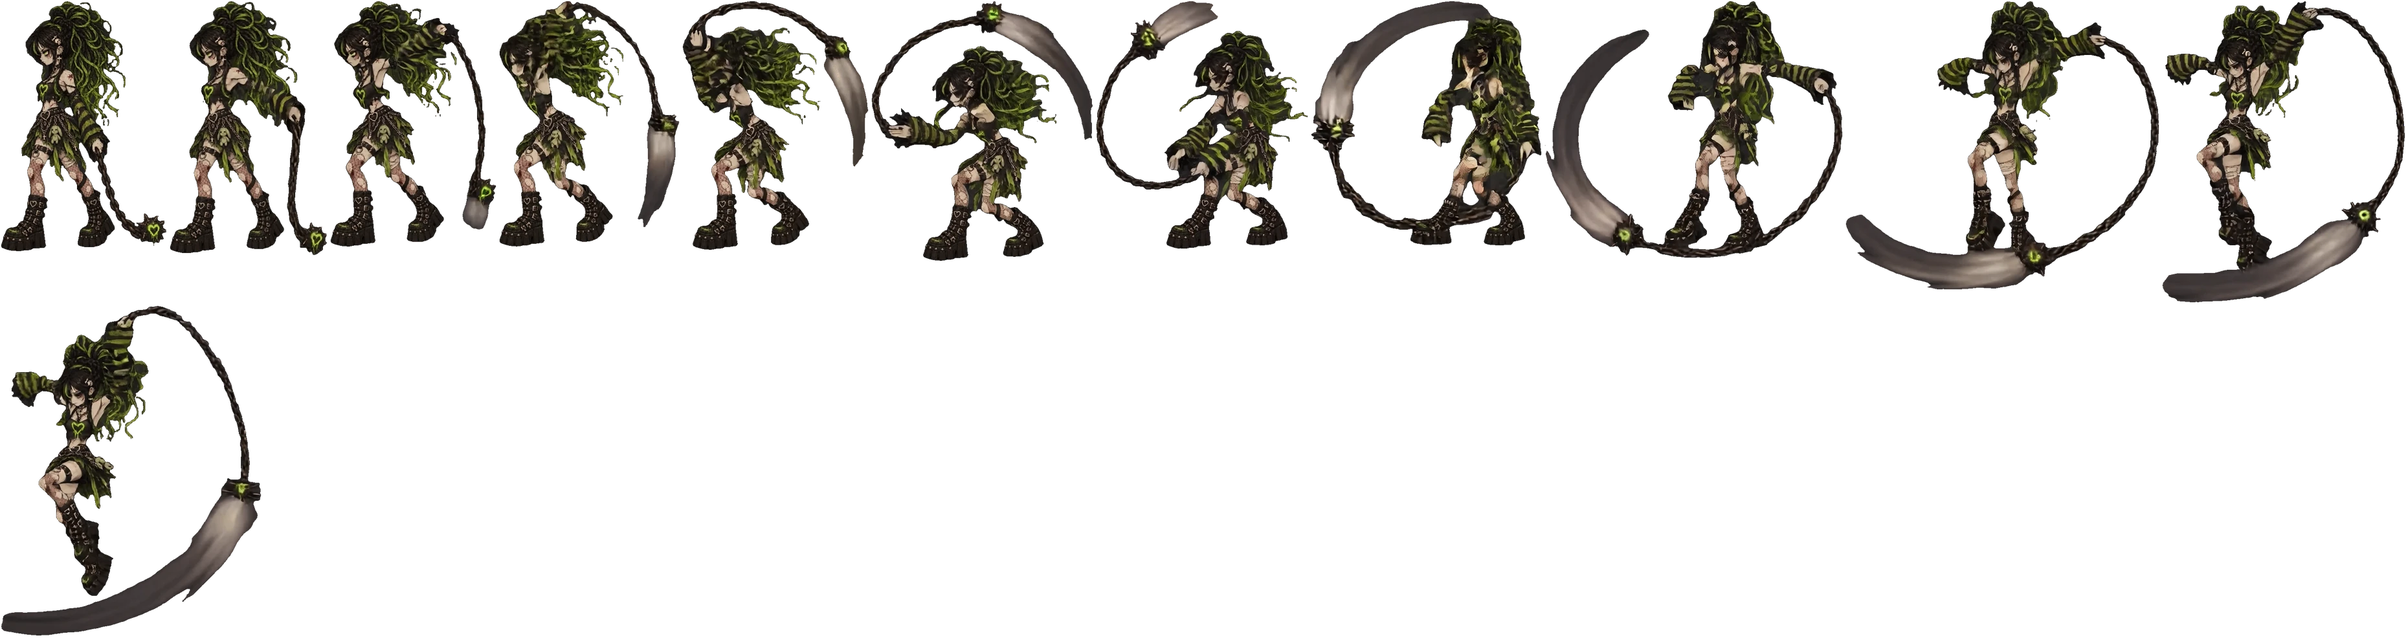
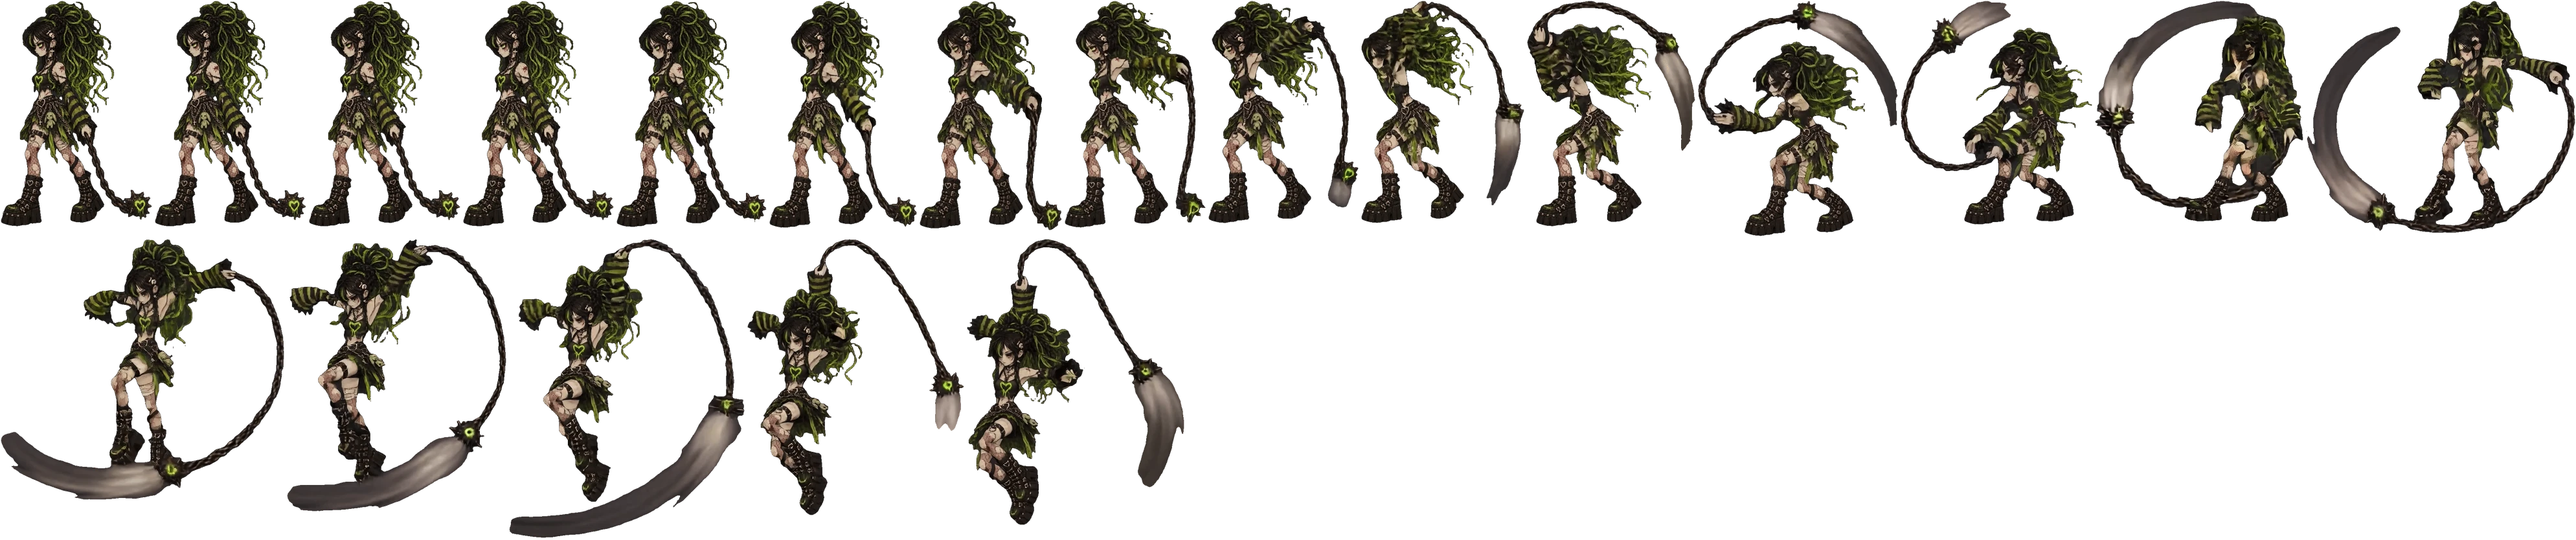
Add files via upload

diff --git a/js/levels/level1.js b/js/levels/level1.js
@@ -1,4 +1,4 @@
-/* Goodbye Goth V9.1 - Chain Goth fight (AI + intro/walk/swipe art) on top of V9.0 map cleanup and the v8.11 Zombie Goth AI. */
+/* Goodbye Goth V9.2 - Chain Goth fight (AI + intro/walk/swipe art) on top of V9.0 map cleanup and the v8.11 Zombie Goth AI. */
 const WORLD_W = 1536,
     WORLD_H = 1024;
 const SAVE_KEY = 'goodbyeGothSave_v6';
@@ -230,49 +230,53 @@ const ZOMBIE_DEATH_FLOOR_OFFSETS = [69, 67, 66, 71, 66, 58, 41, 41];
    animator's 1440x1440 frames by tools/build_chain_assets.py). Every frame row is
    [packX, packY, packW, packH, offsetX, offsetY]; the offsets place the trimmed frame
    relative to her feet. The art faces LEFT, like the Zombie Goth art. */
-const CHAIN_ATLAS_DATA = {"intro":{"size":[4018,2009],"frames":[[0,0,261,388,-211,-623],[263,0,260,384,-211,-615],[525,0,265,374,-211,-601],[792,0,291,388,-211,-621],[1085,0,348,404,-211,-649],[1435,0,368,522,-215,-839],[1805,0,355,526,-436,-844],[2162,0,442,378,-399,-606],[2606,0,406,485,-292,-777],[3014,0,461,509,-423,-819],[3477,0,505,388,-477,-624],[0,528,369,517,-209,-792],[371,528,565,503,-452,-807],[938,528,373,531,-452,-856],[1313,528,487,416,-425,-649],[1802,528,368,510,-210,-771],[2172,528,416,508,-258,-815],[2590,528,560,495,-434,-794],[3152,528,504,513,-429,-824],[3658,528,360,544,-437,-877],[0,1074,471,446,-464,-718],[473,1074,524,396,-464,-623],[999,1074,410,466,-279,-704],[1411,1074,381,532,-210,-801],[1794,1074,472,489,-330,-784],[2268,1074,586,499,-462,-801],[2856,1074,482,521,-427,-839],[3340,1074,358,542,-443,-874],[0,1618,502,389,-475,-626]]},"walk":{"size":[3812,786],"frames":[[0,0,410,381,-261,-619],[412,0,401,381,-244,-617],[815,0,373,388,-198,-621],[1190,0,345,391,-151,-625],[1537,0,349,391,-157,-628],[1888,0,370,387,-190,-624],[2260,0,411,381,-255,-619],[2673,0,412,381,-256,-617],[3087,0,371,389,-189,-622],[3460,0,352,391,-156,-625],[0,393,353,391,-157,-628],[355,393,378,386,-197,-625]]},"swipe":{"size":[3717,986],"frames":[[0,0,259,390,-211,-626],[261,0,246,396,-211,-630],[509,0,259,383,-211,-614],[770,0,281,383,-211,-614],[1053,0,290,388,-236,-622],[1345,0,345,405,-339,-650],[1692,0,330,386,-385,-619],[2024,0,359,381,-441,-620],[2385,0,463,400,-457,-641],[2850,0,487,449,-396,-690],[3339,0,378,469,-180,-724],[0,471,405,513,-182,-799]]}};
+const CHAIN_ATLAS_DATA = {"intro":{"size":[4040,2644],"scale":0.5,"frames":[[0,0,210,313,-211,-623],[212,0,210,313,-211,-622],[424,0,210,310,-211,-615],[636,0,210,304,-211,-605],[848,0,214,302,-211,-601],[1064,0,216,306,-211,-610],[1282,0,234,312,-211,-621],[1518,0,260,316,-211,-629],[1780,0,280,326,-211,-649],[2062,0,294,367,-211,-731],[2358,0,296,421,-215,-839],[2656,0,326,404,-382,-804],[2984,0,286,424,-436,-844],[3272,0,303,362,-443,-719],[3577,0,356,305,-399,-606],[0,426,275,380,-211,-756],[277,426,328,391,-292,-777],[607,426,433,398,-450,-791],[1042,426,372,410,-423,-819],[1416,426,294,433,-440,-865],[1712,426,408,312,-477,-624],[2122,426,400,340,-446,-664],[2524,426,298,417,-209,-792],[2824,426,341,403,-269,-788],[3167,426,456,406,-452,-807],[3625,426,390,416,-427,-829],[0,861,300,428,-452,-856],[302,861,414,312,-491,-625],[718,861,393,336,-425,-649],[1113,861,297,411,-210,-771],[1412,861,336,410,-258,-815],[1750,861,452,399,-434,-794],[2204,861,406,414,-429,-824],[2612,861,290,439,-437,-877],[2904,861,380,360,-464,-718],[3286,861,422,320,-464,-623],[3710,861,330,376,-279,-704],[0,1302,307,429,-210,-801],[309,1302,381,394,-330,-784],[692,1302,472,402,-462,-801],[1166,1302,388,420,-427,-839],[1556,1302,289,438,-443,-874],[1847,1302,405,314,-475,-626],[2254,1302,406,322,-442,-626],[2662,1302,316,396,-241,-740],[2980,1302,320,452,-225,-830],[3302,1302,424,394,-413,-782],[0,1756,466,402,-461,-798],[468,1756,350,418,-424,-834],[820,1756,316,437,-436,-873],[1138,1756,412,312,-467,-624],[1552,1756,396,332,-414,-634],[1950,1756,304,426,-209,-783],[2256,1756,330,440,-237,-803],[2588,1756,427,398,-404,-790],[3017,1756,476,402,-461,-799],[3495,1756,374,418,-427,-833],[0,2198,293,444,-431,-887],[295,2198,401,354,-455,-706],[698,2198,414,330,-447,-630]]},"walk":{"size":[3765,706],"scale":0.56,"frames":[[0,0,371,344,-261,-619],[373,0,362,344,-244,-617],[737,0,337,351,-198,-621],[1076,0,311,353,-151,-625],[1389,0,315,353,-157,-628],[1706,0,334,349,-190,-624],[2042,0,371,344,-255,-619],[2415,0,372,344,-256,-617],[2789,0,335,351,-189,-622],[3126,0,318,353,-156,-625],[3446,0,319,353,-157,-628],[0,355,341,349,-197,-625]]},"swipe":{"size":[3978,834],"scale":0.56,"frames":[[0,0,236,351,-211,-623],[238,0,236,351,-211,-623],[476,0,236,351,-211,-624],[714,0,235,351,-211,-624],[951,0,234,352,-211,-626],[1187,0,230,353,-211,-627],[1419,0,222,357,-211,-630],[1643,0,220,353,-211,-627],[1865,0,234,346,-211,-614],[2101,0,254,346,-211,-614],[2357,0,262,351,-236,-622],[2621,0,311,366,-339,-650],[2934,0,298,348,-385,-619],[3234,0,324,344,-441,-620],[3560,0,418,361,-457,-641],[0,368,440,405,-396,-690],[442,368,341,423,-180,-724],[785,368,366,464,-182,-799],[1153,368,337,429,-122,-868],[1492,368,338,444,-97,-913]]},"death":{"size":[4025,897],"scale":0.56,"frames":[[0,0,256,345,-263,-614],[258,0,291,343,-336,-610],[551,0,299,342,-360,-608],[852,0,281,360,-319,-656],[1135,0,334,394,-399,-725],[1471,0,411,442,-518,-805],[1884,0,306,387,-325,-713],[2192,0,304,390,-322,-703],[2498,0,304,338,-321,-609],[2804,0,304,337,-321,-609],[3110,0,303,337,-320,-615],[3415,0,304,338,-320,-611],[3721,0,304,338,-319,-615],[0,444,303,335,-317,-615],[305,444,305,329,-310,-597],[612,444,306,320,-304,-580],[920,444,309,299,-293,-542],[1231,444,316,277,-288,-501],[1549,444,352,218,-304,-384],[1903,444,405,140,-321,-216],[2310,444,405,114,-321,-167],[2717,444,405,114,-321,-167],[3124,444,405,114,-321,-167],[3531,444,405,114,-321,-168],[0,781,405,114,-321,-167],[407,781,405,114,-321,-168],[814,781,405,114,-321,-167],[1221,781,405,114,-321,-167],[1628,781,405,114,-321,-167],[2035,781,405,114,-321,-167],[2442,781,405,114,-321,-167],[2849,781,405,114,-321,-167]]}};
 const chainAtlas = {};
 for (const [name, data] of Object.entries(CHAIN_ATLAS_DATA)) {
     const img = new Image();
-    img.src = `assets/characters/combat/chain-goth/chain-${name}.webp?v=9100`;
-    chainAtlas[name] = { img, frames: data.frames };
+    img.src = `assets/characters/combat/chain-goth/chain-${name}.webp?v=9210`;
+    chainAtlas[name] = { img, frames: data.frames, scale: data.scale };
 }
-const CHAIN_ATLAS_SCALE = 0.62;          // pack pixels per original animator pixel
 const CHAIN_RENDER_SCALE = 0.56;         // size in the arena (original pixels -> screen pixels)
-const CHAIN_INTRO_SCALE_BOOST = 1.12;    // the 3-2-1 showboating pose is a little bigger
+const CHAIN_INTRO_SCALE = 0.50;          // 3-2-1 pose is drawn a bit smaller so her chain never goes behind the HP bar
 const CHAIN_FLOOR_Y = 535;               // same floor line Olly and the Zombie stand on
 // Intro: 14 build-up frames, then a 15-frame chain-twirl loop that repeats until FIGHT.
-const CHAIN_INTRO_PRE_COUNT = 14, CHAIN_INTRO_PRE_MS = 80, CHAIN_INTRO_LOOP_COUNT = 15, CHAIN_INTRO_LOOP_MS = 50;
+const CHAIN_INTRO_PRE_COUNT = 28, CHAIN_INTRO_PRE_MS = 55, CHAIN_INTRO_LOOP_COUNT = 32, CHAIN_INTRO_LOOP_MS = 47;   // each loop is about one countdown beat (1.5s)
+const CHAIN_INTRO_GROW_MS = 500;         // she eases from the intro size to her normal fighting size at the very end of the countdown
 const CHAIN_WALK_FRAME_MS = 105;
 // Swipe pack: frames 0-5 = wind-up (chain lifts behind her), frames 6-11 = the low sweep.
-const CHAIN_SWIPE_WINDUP_COUNT = 6, CHAIN_SWIPE_WINDUP_MS = 520;
-const CHAIN_SWIPE_STRIKE_FIRST = 6;
-const CHAIN_SWIPE_STRIKE_MS = [70, 60, 60, 60, 70, 90];
+const CHAIN_SWIPE_WINDUP_COUNT = 10, CHAIN_SWIPE_WINDUP_MS = 520;
+const CHAIN_SWIPE_STRIKE_FIRST = 10;
+const CHAIN_SWIPE_STRIKE_MS = [34, 34, 34, 34, 34, 34, 34, 34, 34, 34];   // ten frames, fast and fluid
 const CHAIN_SWIPE_TOTAL_MS = CHAIN_SWIPE_STRIKE_MS.reduce((a, b) => a + b, 0);
-const CHAIN_SWIPE_HIT_AT_MS = 130;       // the moment the mace sweeps across the floor in front of her
+const CHAIN_SWIPE_HIT_AT_MS = 136;       // the moment the mace sweeps across the floor in front of her
 const CHAIN_SWIPE_DAMAGE = 5, CHAIN_SWIPE_RANGE = 250, CHAIN_SWIPE_PUSH = 34;
 const CHAIN_STAND_OFF = 235;             // how far from Olly she likes to stand
 const CHAIN_CHASE_SPEED = 170;           // quicker than the Zombie Goth (135)
 const CHAIN_RECOVER_MS = 520;
 // Death is a simple topple + fade until the dedicated death art is added.
-const CHAIN_DEATH_FALL_MS = 850, CHAIN_DEATH_HOLD_MS = 1400;
+const CHAIN_DEATH_FRAME_MS = 38, CHAIN_DEATH_FALL_MS = 31 * 38, CHAIN_DEATH_HOLD_MS = 1500;   // 31 hit-and-fall frames, then she lies still before fading
 
-function drawChainAtlasFrame(c, pack, index, x, floorY, face, scaleMul = 1, alpha = 1, rotation = 0, offsetX = 0) {
+function drawChainAtlasFrame(c, pack, index, x, floorY, face, renderScale = CHAIN_RENDER_SCALE, alpha = 1, rotation = 0, offsetX = 0) {
     const img = pack?.img;
     const f = pack?.frames?.[index];
     if (!img || !img.complete || !img.naturalWidth || !f)
         return;
-    const rs = CHAIN_RENDER_SCALE * scaleMul;
-    const k = rs / CHAIN_ATLAS_SCALE;
+    const rs = renderScale;
+    const k = rs / pack.scale;          // 1 when drawn at the pack's own size = no resampling = crisp
+    const snap = Math.abs(k - 1) < 0.001;
     c.save();
     c.globalAlpha = alpha;
-    c.translate(x + offsetX, floorY);
+    c.translate(Math.round(x + offsetX), floorY);
     if (rotation)
         c.rotate(rotation);
     c.scale(face === 'left' ? 1 : -1, 1);   // art is authored facing left
     c.imageSmoothingEnabled = true;
     c.imageSmoothingQuality = 'high';
-    c.drawImage(img, f[0], f[1], f[2], f[3], f[4] * rs, f[5] * rs, f[2] * k, f[3] * k);
+    if (snap)
+        c.drawImage(img, f[0], f[1], f[2], f[3], Math.round(f[4] * rs), Math.round(f[5] * rs), f[2], f[3]);
+    else
+        c.drawImage(img, f[0], f[1], f[2], f[3], f[4] * rs, f[5] * rs, f[2] * k, f[3] * k);
     c.restore();
 }
 
@@ -2312,6 +2316,7 @@ export function createLevel1(ui) {
         return mode === 'combat' && !isBoss && target?.type === 'chain';
     }
 
+    let chainDeathFace = 'left';
     function getChainCombatFrame(nowMs) {
         const elapsed = Math.max(0, nowMs - zombieCombatStateStart);
         const walkFrames = chainAtlas.walk?.frames?.length || 1;
@@ -2320,15 +2325,18 @@ export function createLevel1(ui) {
             const index = elapsed < preMs
                 ? Math.floor(elapsed / CHAIN_INTRO_PRE_MS)
                 : CHAIN_INTRO_PRE_COUNT + (Math.floor((elapsed - preMs) / CHAIN_INTRO_LOOP_MS) % CHAIN_INTRO_LOOP_COUNT);
-            return { pack: chainAtlas.intro, index, scale: CHAIN_INTRO_SCALE_BOOST };
+            const left = ZOMBIE_INTRO_TOTAL_MS - elapsed;
+            const grow = Math.max(0, Math.min(1, 1 - left / CHAIN_INTRO_GROW_MS));
+            const eased = grow * grow * (3 - 2 * grow);
+            return { pack: chainAtlas.intro, index, scale: CHAIN_INTRO_SCALE + (CHAIN_RENDER_SCALE - CHAIN_INTRO_SCALE) * eased };
         }
         if (zombieCombatState === 'chase' || zombieCombatState === 'recover') {
             const index = Math.floor(Math.max(0, zombieCombatWalkIndex) / CHAIN_WALK_FRAME_MS) % walkFrames;
-            return { pack: chainAtlas.walk, index, scale: 1 };
+            return { pack: chainAtlas.walk, index, scale: CHAIN_RENDER_SCALE };
         }
         if (zombieCombatState === 'windup') {
             const p = Math.min(.999, elapsed / CHAIN_SWIPE_WINDUP_MS);
-            return { pack: chainAtlas.swipe, index: Math.floor(p * CHAIN_SWIPE_WINDUP_COUNT), scale: 1 };
+            return { pack: chainAtlas.swipe, index: Math.floor(p * CHAIN_SWIPE_WINDUP_COUNT), scale: CHAIN_RENDER_SCALE };
         }
         if (zombieCombatState === 'swipe') {
             let acc = 0;
@@ -2340,15 +2348,21 @@ export function createLevel1(ui) {
                     break;
                 }
             }
-            return { pack: chainAtlas.swipe, index, scale: 1 };
+            return { pack: chainAtlas.swipe, index, scale: CHAIN_RENDER_SCALE };
         }
-        // ready, hit and death all use the neutral standing pose.
-        return { pack: chainAtlas.swipe, index: 0, scale: 1 };
+        if (zombieCombatState === 'death') {
+            const n = chainAtlas.death?.frames?.length || 1;
+            const t = Math.max(0, nowMs - zombieCombatStateStart);
+            return { pack: chainAtlas.death, index: Math.min(n - 1, Math.floor(t / CHAIN_DEATH_FRAME_MS)), scale: CHAIN_RENDER_SCALE };
+        }
+        // ready and hit use the neutral standing pose.
+        return { pack: chainAtlas.swipe, index: 0, scale: CHAIN_RENDER_SCALE };
     }
 
     function drawChainCombat(c, enemyX, enemyY, nowMs) {
         const frame = getChainCombatFrame(nowMs);
-        const face = player.x < enemyX ? 'left' : 'right';
+        if (zombieCombatState !== 'death') chainDeathFace = player.x < enemyX ? 'left' : 'right';
+        const face = chainDeathFace;
         let offsetX = 0;
         let rotation = 0;
         let alpha = 1;
@@ -2362,13 +2376,8 @@ export function createLevel1(ui) {
             alpha = nowMs < zombieHitFlashUntil ? .72 : 1;
         } else if (zombieCombatState === 'death') {
             const t = Math.max(0, nowMs - zombieCombatStateStart);
-            const fall = Math.min(1, t / CHAIN_DEATH_FALL_MS);
-            const ease = 1 - Math.pow(1 - fall, 3);
-            const awayDir = zombieCombatX >= player.x ? 1 : -1;
-            rotation = awayDir * ease * (Math.PI / 2 - .08);
-            offsetX = awayDir * ease * 70;
-            const fadeStart = CHAIN_DEATH_FALL_MS + CHAIN_DEATH_HOLD_MS * .45;
-            alpha = t < fadeStart ? 1 : Math.max(0, 1 - (t - fadeStart) / (CHAIN_DEATH_HOLD_MS * .55));
+            const fadeStart = CHAIN_DEATH_FALL_MS + CHAIN_DEATH_HOLD_MS * .55;
+            alpha = t < fadeStart ? 1 : Math.max(0, 1 - (t - fadeStart) / (CHAIN_DEATH_HOLD_MS * .45));
         }
 
         // Soft floor shadow so she sits on the ground like Olly does.
@@ -2376,7 +2385,7 @@ export function createLevel1(ui) {
             c.save();
             c.fillStyle = 'rgba(0,0,0,.28)';
             c.beginPath();
-            c.ellipse(enemyX + offsetX, CHAIN_FLOOR_Y + 6, 58 * frame.scale, 11, 0, 0, Math.PI * 2);
+            c.ellipse(enemyX + offsetX, CHAIN_FLOOR_Y + 6, 58 * (frame.scale / CHAIN_RENDER_SCALE), 11, 0, 0, Math.PI * 2);
             c.fill();
             c.restore();
         }

diff --git a/tools/build_chain_assets.py b/tools/build_chain_assets.py
@@ -11,17 +11,19 @@ import sys, os, json
 from PIL import Image
 
 ANCHOR = (720, 1030)      # feet position shared by every animator canvas (source px)
-ATLAS_SCALE = 0.62        # atlas pixels per source pixel
 MAX_W = 4096
 
-# name -> (source folder inside assets/characters/combat, frame numbers to keep)
+# name -> (source folder inside assets/characters/combat, frame numbers to keep, atlas scale)
+# The atlas scale is the exact size the frames are drawn at in the arena, so the game never has to
+# resample them (that is what kept them crisp). 0.56 = same size as Olly's opponent walk.
 ANIMS = {
-    'intro': ('321 fight', list(range(0, 28, 2)) + list(range(28, 43))),
-    'walk':  ('CGwalk',    list(range(14, 38, 2))),
-    'swipe': ('chaingothchainswipe', [4, 6, 8, 9, 10, 11, 12, 13, 14, 15, 16, 17]),
+    'intro': ('321 fight', list(range(0, 60)), 0.50),                 # frames 0-27 build up, 28-59 loop
+    'walk':  ('CGwalk',    list(range(14, 38, 2)), 0.56),
+    'swipe': ('chaingothchainswipe', list(range(0, 20)), 0.56),       # 0-9 wind-up, 10-19 sweep
+    'death': ('chaingothdeath', list(range(6, 37)) + [60], 0.56),     # 6-36 hit + fall, 60 = lying on the floor
 }
 
-def pack(repo, name, folder, frames):
+def pack(repo, name, folder, frames, ATLAS_SCALE):
     src_dir = os.path.join(repo, 'assets/characters/combat', folder, 'frames')
     tiles = []
     for n in frames:
@@ -52,16 +54,16 @@ def pack(repo, name, folder, frames):
     os.makedirs(out_dir, exist_ok=True)
     out = os.path.join(out_dir, 'chain-%s.webp' % name)
     atlas.save(out, 'WEBP', quality=90, alpha_quality=100, method=6)
-    return out, atlas.size, table
+    return out, atlas.size, table, ATLAS_SCALE
 
 if __name__ == '__main__':
     repo = sys.argv[1]
     names = sys.argv[2:] or list(ANIMS)
     result = {}
     for name in names:
-        folder, frames = ANIMS[name]
-        out, size, table = pack(repo, name, folder, frames)
+        folder, frames, sc = ANIMS[name]
+        out, size, table, sc = pack(repo, name, folder, frames, sc)
         kb = os.path.getsize(out) / 1024
         print('%-6s %2d frames  atlas %dx%d  %.0f KB  -> %s' % (name, len(frames), size[0], size[1], kb, os.path.relpath(out, repo)), file=sys.stderr)
-        result[name] = {'size': list(size), 'frames': table}
+        result[name] = {'size': list(size), 'scale': sc, 'frames': table}
     print(json.dumps(result, separators=(',', ':')))

diff --git a/README.md b/README.md
@@ -1,41 +1,35 @@
-# Goodbye Goth V9.1 – Chain Goth (Part 1)
+# Goodbye Goth V9.2 – Chain Goth fixes + death animation
 
-Chain Goth is now the second Level 1 enemy, built from the Zombie Goth AI.
-Part 1 uses the three animation folders you've uploaded so far: 3-2-1 FIGHT, walk and chain swipe.
-
-## What she does
-- 3-2-1 FIGHT intro (same countdown flow as Zombie Goth), then she walks toward Olly.
-- Chain swipe: about half a second of wind-up with the "ATTACK INCOMING" banner, then a fast low sweep. 5 damage. Jump or dodge (R / right-click) avoids it.
-- Gets hit: flinches and flashes with green sparks (placeholder until your hurt-reaction art is uploaded).
-- Defeated: topples and fades, then "CHAIN GOTH DEFEATED!" (placeholder until the death art is uploaded).
-- Zombie Goth, the Heavy Attack unlock and the 50 HP return are unchanged.
+## What changed (from your feedback)
+- 3-2-1 FIGHT: she is drawn smaller so her chain no longer goes behind the HP bar. At the very end of the countdown she grows smoothly to her normal fighting size.
+- 3-2-1 chain swing: now uses every frame of your animation and plays about one swing per countdown number, so it is slower and smoother.
+- Chain swipe: now uses all 20 frames (before it was 12), with the strike at about 30 frames per second, so it reads as one fluid motion instead of separate frames. The wind-up is also smoother. The damage moment is unchanged (5 damage; jump or dodge avoids it).
+- Sharper look: the pictures are now drawn at their own size with no resizing. That was the main reason she looked soft before.
+- Death: your new death animation is in. She takes the hit, falls, lies on the floor and fades, then the "CHAIN GOTH DEFEATED!" screen appears.
+- Walk: unchanged (you said it was perfect).
+- Zombie Goth is untouched.
 
 ## Where each file goes (branch Testing5)
-| File in this ZIP | GitHub destination (replace / add) |
+| File in this ZIP | GitHub destination |
 |---|---|
 | js/levels/level1.js | js/levels/level1.js (replace) |
-| assets/characters/combat/chain-goth/chain-intro.webp | same path (new) |
-| assets/characters/combat/chain-goth/chain-walk.webp | same path (new) |
-| assets/characters/combat/chain-goth/chain-swipe.webp | same path (new) |
-| tools/build_chain_assets.py | optional, only for my future use |
-
-Upload keeping the folder structure (GitHub: Add file > Upload files, drag the folders in).
-The big original folders (321 fight, CGwalk, chaingothchainswipe) are NOT used by the game. They're only my source frames, so you can leave them or delete them later to keep the repo light.
+| assets/characters/combat/chain-goth/chain-intro.webp | same path (replace) |
+| assets/characters/combat/chain-goth/chain-walk.webp | same path (replace) |
+| assets/characters/combat/chain-goth/chain-swipe.webp | same path (replace) |
+| assets/characters/combat/chain-goth/chain-death.webp | same path (NEW) |
+| tools/build_chain_assets.py | optional, my packing script |
 
 ## Checks done here (honest list)
-- JS syntax check: passed.
-- Headless Chrome test (not real play): intro runs, then chase, wind-up, swipe. Each swipe did exactly 5 damage once. Punching her and killing her reaches the "CHAIN GOTH DEFEATED!" screen with no page errors. Zombie Goth still starts and runs.
-- Screenshots reviewed: size, floor line and facing match Olly.
-- My test browser only ran about 4 fps, so I could NOT properly test jump or dodge timing.
+- JS syntax check passed.
+- Headless Chrome with the game slowed down so I could capture individual frames: reviewed the intro, swipe and death frames. The chain stays below the HP bar in the countdown, the swipe is continuous, and the death plays through and lies on the floor.
+- Headless run: killing her reaches the "CHAIN GOTH DEFEATED!" screen with no page errors.
+- NOT tested: real-speed feel, and jump/dodge timing (my test browser runs about 4 fps). Please judge speed in the live game.
 
 ## Please test in-game
-1. Fight Chain Goth: do 3-2-1 FIGHT and the walk look right? Is she the right size and on the floor?
-2. Does the swipe look/feel fair? Does jumping over it or dodging (R / right-click) avoid the damage?
-3. Punch and Heavy Attack her: does she react? Does she die and show the defeated screen?
-4. Beat both Goths: Heavy Attack still unlocks, 50 HP return still works.
-5. Re-check Zombie Goth quickly.
-6. If an animation loops badly, tell me which one and send frames you prefer.
+1. 3-2-1: is she the right size? Chain fully visible? Swing speed okay? (If still too fast or slow, tell me which and by how much.)
+2. Does the chain swipe now feel fluid and fair? Jump and dodge (R / right-click) still avoid it?
+3. Kill her: death plays properly and the defeated screen follows?
+4. Does she still look too thin or soft?
 
-## Part 2 (when you upload the rest)
-Chain spin (hits around her, dodge works, jumping doesn't), stunned after the spin, real hurt reaction, real death, then the pattern swipe, swipe, spin.
-You only need the `frames` folders, not the `spritesheet-...` files.
+## Still waiting for
+Hurt reaction, stunned and chain spin (the hurt and stun folders had not arrived on Testing5 when I looked). Her hit reaction is still the placeholder flinch until the hurt reaction frames arrive.
